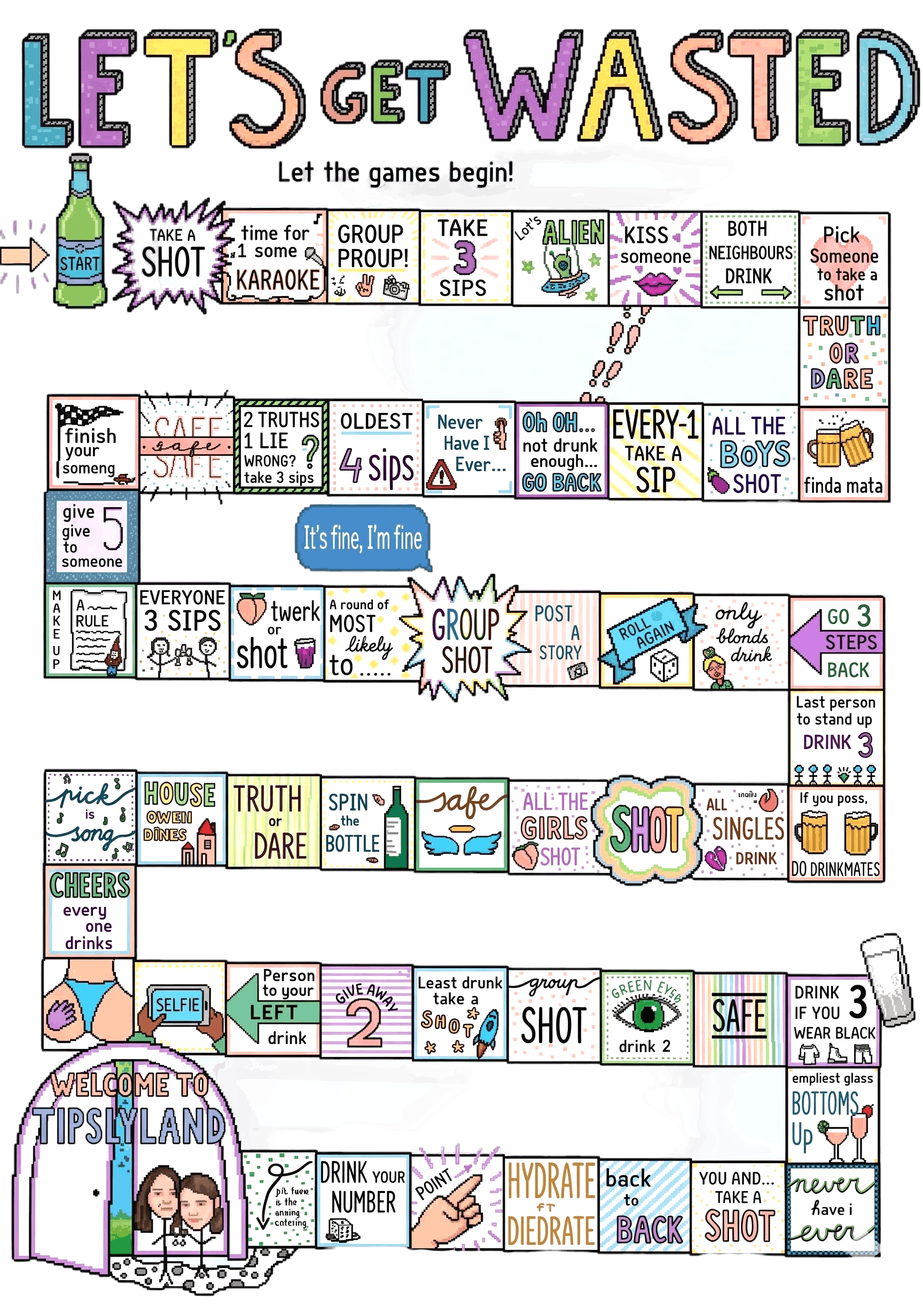
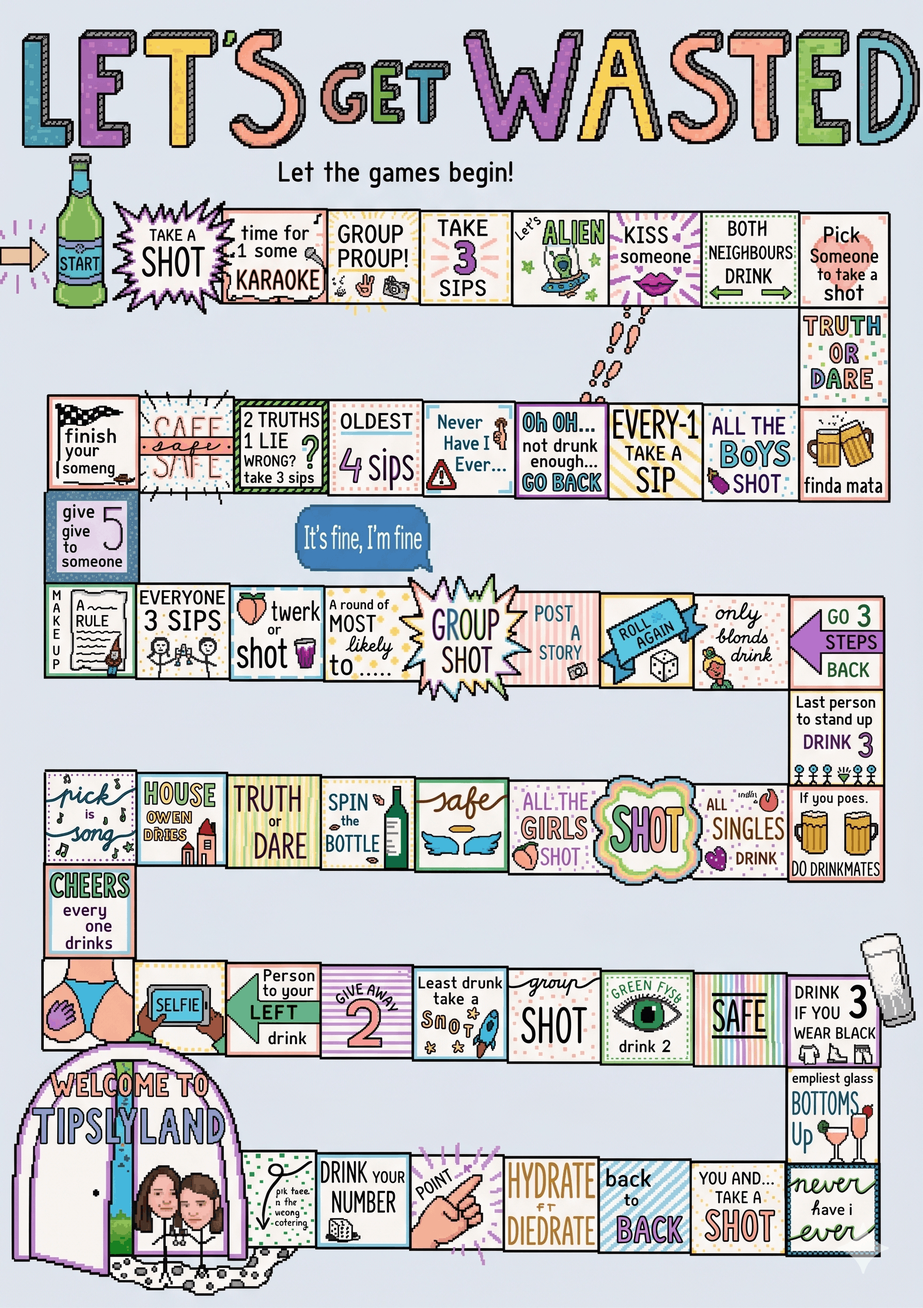
new game updates

diff --git a/src/components/games/LetsGetWasted.tsx b/src/components/games/LetsGetWasted.tsx
@@ -511,41 +511,41 @@ export default function LetsGetWasted({ onExit, onFinish }: Props) {
   };
 
   return (
-    <section className={`relative min-h-dvh w-full overflow-hidden px-3 pb-[calc(6.5rem+env(safe-area-inset-bottom))] pt-3 ${
+    <section className={`lets-get-wasted-screen relative h-dvh w-full overflow-hidden px-3 ${
       isAdult
         ? "bg-[radial-gradient(circle_at_50%_0%,#3b061d,#150612_48%,#07030b_100%)]"
         : "bg-[radial-gradient(circle_at_50%_0%,#fef3c7,#fbcfe8_42%,#bae6fd_100%)]"
     }`}>
-      <header className="relative z-10 mx-auto flex max-w-4xl items-center justify-between">
+      <header className="lets-get-wasted-header relative z-10 mx-auto flex max-w-4xl items-center justify-between">
         <button
           onClick={onExit}
-          className={`rounded-full border px-3 py-1.5 font-pixel text-[10px] backdrop-blur ${
+          className={`rounded-full border px-3 py-1.5 font-pixel text-[9px] backdrop-blur sm:text-[10px] ${
             isAdult ? "border-white/15 bg-white/10 text-white/80" : "border-rose-300 bg-white/85 text-rose-950"
           }`}
         >
           ← Exit
         </button>
-        <div className={`rounded-full border px-3 py-1 font-pixel text-[9px] tracking-widest backdrop-blur ${
+        <div className={`rounded-full border px-2.5 py-1 font-pixel text-[7px] tracking-widest backdrop-blur sm:px-3 sm:text-[9px] ${
           isAdult ? "border-rose-300/30 bg-black/25 text-rose-100" : "border-cyan-300 bg-white/85 text-cyan-950"
         }`}>
           LET'S GET WASTED · {TILES.length} TILES
         </div>
       </header>
 
-      <div className="relative z-10 mx-auto mt-2 flex max-w-4xl items-center justify-center gap-2">
-        <span className="h-3 w-3 rounded-full ring-2 ring-white" style={{ background: current?.color }} />
-        <p className={`font-script text-3xl leading-none drop-shadow-sm md:text-5xl ${
+      <div className="lets-get-wasted-turn relative z-10 mx-auto flex max-w-4xl items-center justify-center gap-2">
+        <span className="h-2.5 w-2.5 rounded-full ring-2 ring-white sm:h-3 sm:w-3" style={{ background: current?.color }} />
+        <p className={`font-script text-[clamp(2rem,8vw,3rem)] leading-none drop-shadow-sm md:text-5xl ${
           isAdult ? "text-rose-200" : "text-rose-700"
         }`}>
           {current?.name}'s roll
         </p>
       </div>
 
-      <div className="relative z-10 mx-auto mt-2 w-full max-w-md md:mt-3 md:max-w-2xl lg:max-w-3xl">
-        <div className={`max-h-[calc(100dvh-14.25rem)] overflow-auto rounded-[1.25rem] border-[3px] shadow-[0_22px_60px_-20px_rgba(14,116,144,0.55)] md:max-h-[calc(100dvh-13rem)] ${
+      <div className="lets-get-wasted-board-wrap relative z-10 mx-auto w-full max-w-md md:max-w-2xl lg:max-w-3xl">
+        <div className={`lets-get-wasted-board-frame overflow-auto rounded-[1.25rem] border-[3px] shadow-[0_22px_60px_-20px_rgba(14,116,144,0.55)] ${
           isAdult ? "border-rose-200/30 bg-black/25" : "border-white bg-white"
         }`}>
-          <div className="relative min-w-[320px]">
+          <div className="relative min-w-[260px]">
           <img
             src={board}
             alt="Let's Get Wasted board"
@@ -583,7 +583,7 @@ export default function LetsGetWasted({ onExit, onFinish }: Props) {
           </div>
         </div>
 
-        <div className={`mx-auto mt-3 hidden max-w-xl flex-wrap items-center justify-center gap-2 md:flex md:gap-4 ${
+        <div className={`lets-get-wasted-legend mx-auto hidden max-w-xl flex-wrap items-center justify-center gap-2 md:flex md:gap-4 ${
           isAdult ? "text-white/80" : "text-rose-950"
         }`}>
           {(["drink", "group", "truth", "safe", "bonus", "penalty"] as TileKind[]).map((kind) => (
@@ -596,16 +596,16 @@ export default function LetsGetWasted({ onExit, onFinish }: Props) {
         </div>
       </div>
 
-      <div className="fixed inset-x-0 bottom-[calc(1rem+env(safe-area-inset-bottom))] z-30 flex justify-center px-4">
+      <div className="lets-get-wasted-controls fixed inset-x-0 z-30 flex justify-center px-4">
         <button
           onClick={roll}
           disabled={rolling || !!event}
-          className="flex items-center gap-3 rounded-full bg-gradient-romance px-6 py-3 font-pixel text-[11px] text-primary-foreground shadow-glow enabled:hover:scale-105 disabled:opacity-50"
+          className="flex items-center gap-3 rounded-full bg-gradient-romance px-5 py-2.5 font-pixel text-[10px] text-primary-foreground shadow-glow enabled:hover:scale-105 disabled:opacity-50 sm:px-6 sm:py-3 sm:text-[11px]"
         >
           <motion.span
             animate={rolling ? { rotate: 360 } : { rotate: 0 }}
             transition={{ duration: 0.4, repeat: rolling ? Infinity : 0, ease: "linear" }}
-            className="grid h-9 w-9 place-items-center rounded-lg bg-white font-pixel text-base text-foreground shadow-inner"
+            className="grid h-8 w-8 place-items-center rounded-lg bg-white font-pixel text-sm text-foreground shadow-inner sm:h-9 sm:w-9 sm:text-base"
           >
             {die ?? "🎲"}
           </motion.span>

diff --git a/src/components/WinnerScreen.tsx b/src/components/WinnerScreen.tsx
@@ -3,6 +3,7 @@ import type { FormEvent } from "react";
 import { motion } from "framer-motion";
 import { Mode } from "@/lib/gameTypes";
 import { useGame } from "@/state/GameContext";
+import { supabase } from "@/lib/supabase";
 import winnerParty2 from "@/assets/winner-party-2.png";
 import winnerCouple1 from "@/assets/winner-couple-1.png";
 
@@ -169,23 +170,46 @@ export default function WinnerScreen({ mode, onPlayAgain, onSwitchMode }: Props)
 }
 
 function GameWishFeedback({ isParty }: { isParty: boolean }) {
+  const { user } = useGame();
   const [idea, setIdea] = useState("");
   const [sent, setSent] = useState(false);
+  const [saving, setSaving] = useState(false);
+  const [saveError, setSaveError] = useState<string | null>(null);
 
-  const submit = (e: FormEvent) => {
+  const submit = async (e: FormEvent) => {
     e.preventDefault();
     const trimmed = idea.trim();
-    if (!trimmed) return;
+    if (!trimmed || saving) return;
 
     const item = {
       idea: trimmed,
       mode: isParty ? "party" : "couple",
       createdAt: new Date().toISOString(),
     };
-    const existing = JSON.parse(localStorage.getItem("tc-game-wishes-v1") ?? "[]");
-    localStorage.setItem("tc-game-wishes-v1", JSON.stringify([item, ...existing].slice(0, 25)));
-    setIdea("");
-    setSent(true);
+
+    setSaving(true);
+    setSaveError(null);
+    try {
+      if (!user) throw new Error("Sign in to send feedback.");
+
+      const { error } = await supabase.from("game_feedback").insert({
+        user_id: user.id,
+        mode: item.mode,
+        idea: item.idea,
+      });
+
+      if (error) throw error;
+      setIdea("");
+      setSent(true);
+    } catch (error) {
+      const existing = JSON.parse(localStorage.getItem("tc-game-wishes-v1") ?? "[]");
+      localStorage.setItem("tc-game-wishes-v1", JSON.stringify([item, ...existing].slice(0, 25)));
+      setIdea("");
+      setSent(true);
+      setSaveError(error instanceof Error ? error.message : "Saved locally for now.");
+    } finally {
+      setSaving(false);
+    }
   };
 
   return (
@@ -206,6 +230,7 @@ function GameWishFeedback({ isParty }: { isParty: boolean }) {
           onChange={(e) => {
             setIdea(e.target.value);
             setSent(false);
+            setSaveError(null);
           }}
           placeholder="Tell us your game idea"
           className={`min-h-11 flex-1 rounded-full border px-4 font-serifi text-sm outline-none ${
@@ -216,14 +241,15 @@ function GameWishFeedback({ isParty }: { isParty: boolean }) {
         />
         <button
           type="submit"
+          disabled={saving}
           className="rounded-full bg-gradient-romance px-5 py-3 font-pixel text-[10px] text-primary-foreground shadow-soft transition hover:scale-105"
         >
-          Send
+          {saving ? "Sending" : "Send"}
         </button>
       </div>
       {sent && (
         <p className={`mt-2 font-script text-2xl ${isParty ? "text-pink-200" : "text-accent"}`}>
-          noted, thank you
+          {saveError ? "saved locally for now" : "noted, thank you"}
         </p>
       )}
     </form>

diff --git a/src/index.css b/src/index.css
@@ -325,6 +325,96 @@
       top: auto;
     }
   }
+
+  .lets-get-wasted-screen {
+    --lgw-scoreboard-space: clamp(3.75rem, 8dvh, 4.75rem);
+    --lgw-controls-space: clamp(4.75rem, 9dvh, 5.75rem);
+    --lgw-bottom-space: calc(var(--lgw-scoreboard-space) + var(--lgw-controls-space) + env(safe-area-inset-bottom));
+    --lgw-top-space: clamp(5.6rem, 13dvh, 7.4rem);
+    padding-top: clamp(0.45rem, 1.2dvh, 0.75rem);
+    padding-bottom: var(--lgw-bottom-space);
+  }
+
+  .lets-get-wasted-header {
+    min-height: clamp(2rem, 5dvh, 2.6rem);
+  }
+
+  .lets-get-wasted-turn {
+    min-height: clamp(2.25rem, 6dvh, 3.3rem);
+    margin-top: clamp(0.1rem, 0.8dvh, 0.55rem);
+  }
+
+  .lets-get-wasted-board-wrap {
+    margin-top: clamp(0.25rem, 0.9dvh, 0.6rem);
+  }
+
+  .lets-get-wasted-board-frame {
+    max-height: calc(100dvh - var(--lgw-top-space) - var(--lgw-bottom-space));
+    scrollbar-gutter: stable;
+    overscroll-behavior: contain;
+    -webkit-overflow-scrolling: touch;
+  }
+
+  .lets-get-wasted-legend {
+    margin-top: clamp(0.45rem, 1dvh, 0.75rem);
+  }
+
+  .lets-get-wasted-controls {
+    bottom: calc(var(--lgw-scoreboard-space) + env(safe-area-inset-bottom));
+  }
+
+  @media (max-width: 767px) {
+    .lets-get-wasted-screen {
+      --lgw-scoreboard-space: clamp(3.45rem, 7.5dvh, 4.25rem);
+      --lgw-controls-space: clamp(4.25rem, 8.5dvh, 5rem);
+      --lgw-top-space: clamp(5rem, 11.5dvh, 6.4rem);
+      padding-left: clamp(0.5rem, 2.5vw, 0.75rem);
+      padding-right: clamp(0.5rem, 2.5vw, 0.75rem);
+    }
+
+    .lets-get-wasted-board-frame {
+      max-height: min(
+        calc(100dvh - var(--lgw-top-space) - var(--lgw-bottom-space)),
+        calc((100vw - 1rem) * 1.4167)
+      );
+    }
+  }
+
+  @media (max-width: 767px) and (max-height: 720px) {
+    .lets-get-wasted-screen {
+      --lgw-scoreboard-space: 3.35rem;
+      --lgw-controls-space: 4rem;
+      --lgw-top-space: 4.85rem;
+    }
+
+    .lets-get-wasted-header {
+      min-height: 1.9rem;
+    }
+
+    .lets-get-wasted-turn {
+      min-height: 2rem;
+      margin-top: 0;
+    }
+  }
+
+  @media (min-width: 768px) {
+    .lets-get-wasted-screen {
+      --lgw-scoreboard-space: 4.75rem;
+      --lgw-controls-space: 5.25rem;
+      --lgw-top-space: clamp(6.75rem, 15dvh, 8.5rem);
+    }
+
+    .lets-get-wasted-board-frame {
+      max-height: calc(100dvh - var(--lgw-top-space) - var(--lgw-bottom-space) - 2rem);
+    }
+  }
+
+  @media (min-width: 1024px) and (orientation: landscape) {
+    .lets-get-wasted-screen {
+      --lgw-top-space: clamp(6.25rem, 14dvh, 7.75rem);
+      --lgw-controls-space: 5rem;
+    }
+  }
 }
 
 /* Floating idle animation */
